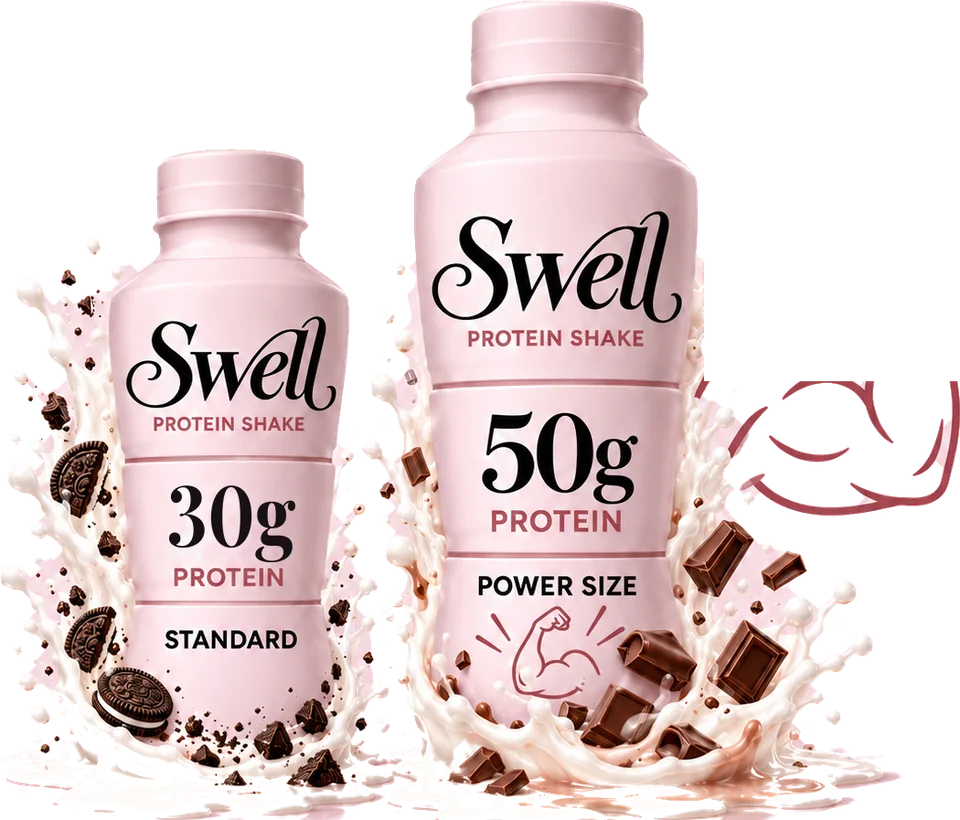
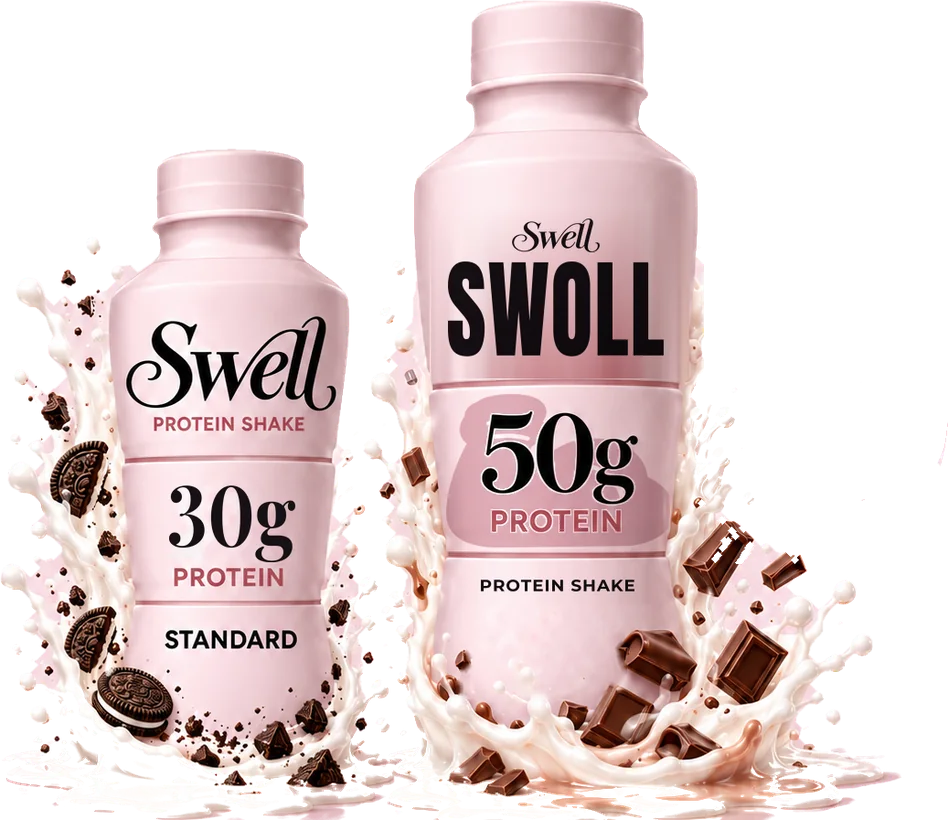
Rebrand the 50g bottle as SWOLL with flexed-arm mark; rename Power Size to Swoll
Claude-Session: https://claude.ai/code/session_01AzpPYfJ2iNTin5mbwrihoY

diff --git a/index.html b/index.html
@@ -361,12 +361,12 @@ footer.site .legal { margin-top: 30px; padding-top: 20px; border-top: 1px solid 
   <a class="btn" href="shop.html#build">Build a box</a>
 </aside><main id="main">
 <div class="lines" id="lines"><div class="lines-track">
-  <div class="line" id="line-shakes"><section class="hero" aria-labelledby="h-shakes"><div class="wrap"><div><h1 id="h-shakes">A milkshake that <em>works out.</em></h1><p class="lead">Cookies & Cream, Cake Batter, Cinnamon Roll and ten more. Every bottle has 30 grams of protein, plus collagen and colostrum, and a lot less sugar than the drive-thru.</p><div class="ctas"><a class="btn" href="shop.html#build">Build a box</a><a class="btn alt" href="machines.html">Find a machine</a></div><div class="facts"><div><b>30g</b>protein, or 50g in Power Size</div><div><b>19</b>flavors</div><div><b>$0</b>due today</div></div><div class="sw-row"><button type="button" class="btn sm alt" data-go="smoothies">Swipe for smoothies →</button></div></div><div class="stage" role="img" aria-label="Swell protein shakes with splashes"><img src="img/splash_cake.webp" alt="" height="720"><img src="img/splash_cc.webp" alt="" height="720"><img src="img/splash_choc.webp" alt="" height="720"></div></div></section><section class="shelf" style="padding-block:28px 10px" aria-labelledby="shelf-shakes"><div class="wrap"><div class="shelf-top"><h2 id="shelf-shakes">All 13 shakes</h2><div class="filters" role="group" aria-label="Filter"><button type="button" class="press" aria-pressed="true" data-filter="all">All</button><button type="button" class="press" aria-pressed="false" data-filter="classic">Classics</button><button type="button" class="press" aria-pressed="false" data-filter="new">New</button><button type="button" class="press" aria-pressed="false" data-filter="seasonal">Seasonal</button></div></div><div class="rail"><article class="fl" data-tag="classic" id="flavor-cc"><span class="tag classic">Classic</span><div class="pic"><img src="img/b_cc.webp" alt="Swell Cookies &amp; Cream protein shake" width="200" height="520" loading="lazy"></div><h3>Cookies &amp; Cream</h3><button type="button" class="add" data-add="cc">Add to box</button></article><article class="fl" data-tag="classic" id="flavor-cake"><span class="tag classic">Classic</span><div class="pic"><img src="img/b_cake.webp" alt="Swell Cake Batter protein shake" width="200" height="520" loading="lazy"></div><h3>Cake Batter</h3><button type="button" class="add" data-add="cake">Add to box</button></article><article class="fl" data-tag="classic" id="flavor-choc"><span class="tag classic">Classic</span><div class="pic"><img src="img/b_choc.webp" alt="Swell Chocolate protein shake" width="200" height="520" loading="lazy"></div><h3>Chocolate</h3><button type="button" class="add" data-add="choc">Add to box</button></article><article class="fl" data-tag="classic" id="flavor-van"><span class="tag classic">Classic</span><div class="pic"><img src="img/b_van.webp" alt="Swell Vanilla protein shake" width="200" height="520" loading="lazy"></div><h3>Vanilla</h3><button type="button" class="add" data-add="van">Add to box</button></article><article class="fl" data-tag="new" id="flavor-peach"><span class="tag new">New</span><div class="pic"><img src="img/b_peach.webp" alt="Swell Peaches &amp; Cream protein shake" width="200" height="520" loading="lazy"></div><h3>Peaches &amp; Cream</h3><button type="button" class="add" data-add="peach">Add to box</button></article><article class="fl" data-tag="new" id="flavor-cinn"><span class="tag new">New</span><div class="pic"><img src="img/b_cinn.webp" alt="Swell Cinnamon Roll protein shake" width="200" height="520" loading="lazy"></div><h3>Cinnamon Roll</h3><button type="button" class="add" data-add="cinn">Add to box</button></article><article class="fl" data-tag="new" id="flavor-mint"><span class="tag new">New</span><div class="pic"><img src="img/b_mint.webp" alt="Swell Mint Chocolate Chip protein shake" width="200" height="520" loading="lazy"></div><h3>Mint Chocolate Chip</h3><button type="button" class="add" data-add="mint">Add to box</button></article><article class="fl" data-tag="new" id="flavor-pbc"><span class="tag new">New</span><div class="pic"><img src="img/b_pbc.webp" alt="Swell Peanut Butter Cup protein shake" width="200" height="520" loading="lazy"></div><h3>Peanut Butter Cup</h3><button type="button" class="add" data-add="pbc">Add to box</button></article><article class="fl" data-tag="new" id="flavor-cbutter"><span class="tag new">New</span><div class="pic"><img src="img/b_cbutter.webp" alt="Swell Cookie Butter protein shake" width="200" height="520" loading="lazy"></div><h3>Cookie Butter</h3><button type="button" class="add" data-add="cbutter">Add to box</button></article><article class="fl" data-tag="new" id="flavor-matcha"><span class="tag new">New</span><div class="pic"><img src="img/b_matcha.webp" alt="Swell Matcha protein shake" width="200" height="520" loading="lazy"></div><h3>Matcha</h3><button type="button" class="add" data-add="matcha">Add to box</button></article><article class="fl" data-tag="new" id="flavor-shortcake"><span class="tag new">New</span><div class="pic"><img src="img/b_shortcake.webp" alt="Swell Strawberry Shortcake protein shake" width="200" height="520" loading="lazy"></div><h3>Strawberry Shortcake</h3><button type="button" class="add" data-add="shortcake">Add to box</button></article><article class="fl" data-tag="seasonal" id="flavor-pumpkin"><span class="tag seasonal">Seasonal</span><div class="pic"><img src="img/b_pumpkin.webp" alt="Swell Pumpkin Spice protein shake" width="200" height="520" loading="lazy"></div><h3>Pumpkin Spice</h3><button type="button" class="add" data-add="pumpkin">Add to box</button></article><article class="fl" data-tag="new" id="flavor-cobbler"><span class="tag new">New</span><div class="pic"><img src="img/b_cobbler.webp" alt="Swell Blueberry Cobbler protein shake" width="200" height="520" loading="lazy"></div><h3>Blueberry Cobbler</h3><button type="button" class="add" data-add="cobbler">Add to box</button></article></div></div></section></div>
-  <div class="line" id="line-smoothies"><section class="hero" aria-labelledby="h-smoothies"><div class="wrap"><div><h1 id="h-smoothies">A smoothie with <em>real protein.</em></h1><p class="lead">Pina Colada, Mango, Blue Raspberry and three more. Creamy fruit taste, 30 grams of protein, collagen and colostrum in every bottle.</p><div class="ctas"><a class="btn" href="shop.html#build">Build a box</a><a class="btn alt" href="machines.html">Find a machine</a></div><div class="facts"><div><b>30g</b>protein, or 50g in Power Size</div><div><b>19</b>flavors</div><div><b>$0</b>due today</div></div><div class="sw-row"><button type="button" class="btn sm alt" data-go="shakes">← Back to shakes</button></div></div><div class="stage" role="img" aria-label="Swell protein smoothies with splashes"><img src="img/splash_sm_pina.webp" alt="" height="720" loading="lazy"><img src="img/splash_sm_mango.webp" alt="" height="720" loading="lazy"><img src="img/splash_sm_berry.webp" alt="" height="720" loading="lazy"></div></div></section><section class="shelf" style="padding-block:28px 10px" aria-labelledby="shelf-smoothies"><div class="wrap"><div class="shelf-top"><h2 id="shelf-smoothies">All 6 smoothies</h2><div class="filters" role="group" aria-label="Filter"><button type="button" class="press" aria-pressed="true" data-filter="all">All</button><button type="button" class="press" aria-pressed="false" data-filter="classic">Classics</button><button type="button" class="press" aria-pressed="false" data-filter="new">New</button></div></div><div class="rail"><article class="fl" data-tag="classic" id="flavor-sm_pina"><span class="tag classic">Classic</span><div class="pic"><img src="img/b_sm_pina.webp" alt="Swell Pina Colada protein smoothie" width="200" height="520" loading="lazy"></div><h3>Pina Colada</h3><button type="button" class="add" data-add="sm_pina">Add to box</button></article><article class="fl" data-tag="classic" id="flavor-sm_mango"><span class="tag classic">Classic</span><div class="pic"><img src="img/b_sm_mango.webp" alt="Swell Mango protein smoothie" width="200" height="520" loading="lazy"></div><h3>Mango</h3><button type="button" class="add" data-add="sm_mango">Add to box</button></article><article class="fl" data-tag="classic" id="flavor-sm_berry"><span class="tag classic">Classic</span><div class="pic"><img src="img/b_sm_berry.webp" alt="Swell Berry Bliss protein smoothie" width="200" height="520" loading="lazy"></div><h3>Berry Bliss</h3><button type="button" class="add" data-add="sm_berry">Add to box</button></article><article class="fl" data-tag="new" id="flavor-sm_apple"><span class="tag new">New</span><div class="pic"><img src="img/b_sm_apple.webp" alt="Swell Sour Apple protein smoothie" width="200" height="520" loading="lazy"></div><h3>Sour Apple</h3><button type="button" class="add" data-add="sm_apple">Add to box</button></article><article class="fl" data-tag="new" id="flavor-sm_blue"><span class="tag new">New</span><div class="pic"><img src="img/b_sm_blue.webp" alt="Swell Blue Raspberry protein smoothie" width="200" height="520" loading="lazy"></div><h3>Blue Raspberry</h3><button type="button" class="add" data-add="sm_blue">Add to box</button></article><article class="fl" data-tag="new" id="flavor-sm_ring"><span class="tag new">New</span><div class="pic"><img src="img/b_sm_ring.webp" alt="Swell Peach Ring protein smoothie" width="200" height="520" loading="lazy"></div><h3>Peach Ring</h3><button type="button" class="add" data-add="sm_ring">Add to box</button></article></div></div></section></div>
+  <div class="line" id="line-shakes"><section class="hero" aria-labelledby="h-shakes"><div class="wrap"><div><h1 id="h-shakes">A milkshake that <em>works out.</em></h1><p class="lead">Cookies & Cream, Cake Batter, Cinnamon Roll and ten more. Every bottle has 30 grams of protein, plus collagen and colostrum, and a lot less sugar than the drive-thru.</p><div class="ctas"><a class="btn" href="shop.html#build">Build a box</a><a class="btn alt" href="machines.html">Find a machine</a></div><div class="facts"><div><b>30g</b>protein, or 50g in a Swoll</div><div><b>19</b>flavors</div><div><b>$0</b>due today</div></div><div class="sw-row"><button type="button" class="btn sm alt" data-go="smoothies">Swipe for smoothies →</button></div></div><div class="stage" role="img" aria-label="Swell protein shakes with splashes"><img src="img/splash_cake.webp" alt="" height="720"><img src="img/splash_cc.webp" alt="" height="720"><img src="img/splash_choc.webp" alt="" height="720"></div></div></section><section class="shelf" style="padding-block:28px 10px" aria-labelledby="shelf-shakes"><div class="wrap"><div class="shelf-top"><h2 id="shelf-shakes">All 13 shakes</h2><div class="filters" role="group" aria-label="Filter"><button type="button" class="press" aria-pressed="true" data-filter="all">All</button><button type="button" class="press" aria-pressed="false" data-filter="classic">Classics</button><button type="button" class="press" aria-pressed="false" data-filter="new">New</button><button type="button" class="press" aria-pressed="false" data-filter="seasonal">Seasonal</button></div></div><div class="rail"><article class="fl" data-tag="classic" id="flavor-cc"><span class="tag classic">Classic</span><div class="pic"><img src="img/b_cc.webp" alt="Swell Cookies &amp; Cream protein shake" width="200" height="520" loading="lazy"></div><h3>Cookies &amp; Cream</h3><button type="button" class="add" data-add="cc">Add to box</button></article><article class="fl" data-tag="classic" id="flavor-cake"><span class="tag classic">Classic</span><div class="pic"><img src="img/b_cake.webp" alt="Swell Cake Batter protein shake" width="200" height="520" loading="lazy"></div><h3>Cake Batter</h3><button type="button" class="add" data-add="cake">Add to box</button></article><article class="fl" data-tag="classic" id="flavor-choc"><span class="tag classic">Classic</span><div class="pic"><img src="img/b_choc.webp" alt="Swell Chocolate protein shake" width="200" height="520" loading="lazy"></div><h3>Chocolate</h3><button type="button" class="add" data-add="choc">Add to box</button></article><article class="fl" data-tag="classic" id="flavor-van"><span class="tag classic">Classic</span><div class="pic"><img src="img/b_van.webp" alt="Swell Vanilla protein shake" width="200" height="520" loading="lazy"></div><h3>Vanilla</h3><button type="button" class="add" data-add="van">Add to box</button></article><article class="fl" data-tag="new" id="flavor-peach"><span class="tag new">New</span><div class="pic"><img src="img/b_peach.webp" alt="Swell Peaches &amp; Cream protein shake" width="200" height="520" loading="lazy"></div><h3>Peaches &amp; Cream</h3><button type="button" class="add" data-add="peach">Add to box</button></article><article class="fl" data-tag="new" id="flavor-cinn"><span class="tag new">New</span><div class="pic"><img src="img/b_cinn.webp" alt="Swell Cinnamon Roll protein shake" width="200" height="520" loading="lazy"></div><h3>Cinnamon Roll</h3><button type="button" class="add" data-add="cinn">Add to box</button></article><article class="fl" data-tag="new" id="flavor-mint"><span class="tag new">New</span><div class="pic"><img src="img/b_mint.webp" alt="Swell Mint Chocolate Chip protein shake" width="200" height="520" loading="lazy"></div><h3>Mint Chocolate Chip</h3><button type="button" class="add" data-add="mint">Add to box</button></article><article class="fl" data-tag="new" id="flavor-pbc"><span class="tag new">New</span><div class="pic"><img src="img/b_pbc.webp" alt="Swell Peanut Butter Cup protein shake" width="200" height="520" loading="lazy"></div><h3>Peanut Butter Cup</h3><button type="button" class="add" data-add="pbc">Add to box</button></article><article class="fl" data-tag="new" id="flavor-cbutter"><span class="tag new">New</span><div class="pic"><img src="img/b_cbutter.webp" alt="Swell Cookie Butter protein shake" width="200" height="520" loading="lazy"></div><h3>Cookie Butter</h3><button type="button" class="add" data-add="cbutter">Add to box</button></article><article class="fl" data-tag="new" id="flavor-matcha"><span class="tag new">New</span><div class="pic"><img src="img/b_matcha.webp" alt="Swell Matcha protein shake" width="200" height="520" loading="lazy"></div><h3>Matcha</h3><button type="button" class="add" data-add="matcha">Add to box</button></article><article class="fl" data-tag="new" id="flavor-shortcake"><span class="tag new">New</span><div class="pic"><img src="img/b_shortcake.webp" alt="Swell Strawberry Shortcake protein shake" width="200" height="520" loading="lazy"></div><h3>Strawberry Shortcake</h3><button type="button" class="add" data-add="shortcake">Add to box</button></article><article class="fl" data-tag="seasonal" id="flavor-pumpkin"><span class="tag seasonal">Seasonal</span><div class="pic"><img src="img/b_pumpkin.webp" alt="Swell Pumpkin Spice protein shake" width="200" height="520" loading="lazy"></div><h3>Pumpkin Spice</h3><button type="button" class="add" data-add="pumpkin">Add to box</button></article><article class="fl" data-tag="new" id="flavor-cobbler"><span class="tag new">New</span><div class="pic"><img src="img/b_cobbler.webp" alt="Swell Blueberry Cobbler protein shake" width="200" height="520" loading="lazy"></div><h3>Blueberry Cobbler</h3><button type="button" class="add" data-add="cobbler">Add to box</button></article></div></div></section></div>
+  <div class="line" id="line-smoothies"><section class="hero" aria-labelledby="h-smoothies"><div class="wrap"><div><h1 id="h-smoothies">A smoothie with <em>real protein.</em></h1><p class="lead">Pina Colada, Mango, Blue Raspberry and three more. Creamy fruit taste, 30 grams of protein, collagen and colostrum in every bottle.</p><div class="ctas"><a class="btn" href="shop.html#build">Build a box</a><a class="btn alt" href="machines.html">Find a machine</a></div><div class="facts"><div><b>30g</b>protein, or 50g in a Swoll</div><div><b>19</b>flavors</div><div><b>$0</b>due today</div></div><div class="sw-row"><button type="button" class="btn sm alt" data-go="shakes">← Back to shakes</button></div></div><div class="stage" role="img" aria-label="Swell protein smoothies with splashes"><img src="img/splash_sm_pina.webp" alt="" height="720" loading="lazy"><img src="img/splash_sm_mango.webp" alt="" height="720" loading="lazy"><img src="img/splash_sm_berry.webp" alt="" height="720" loading="lazy"></div></div></section><section class="shelf" style="padding-block:28px 10px" aria-labelledby="shelf-smoothies"><div class="wrap"><div class="shelf-top"><h2 id="shelf-smoothies">All 6 smoothies</h2><div class="filters" role="group" aria-label="Filter"><button type="button" class="press" aria-pressed="true" data-filter="all">All</button><button type="button" class="press" aria-pressed="false" data-filter="classic">Classics</button><button type="button" class="press" aria-pressed="false" data-filter="new">New</button></div></div><div class="rail"><article class="fl" data-tag="classic" id="flavor-sm_pina"><span class="tag classic">Classic</span><div class="pic"><img src="img/b_sm_pina.webp" alt="Swell Pina Colada protein smoothie" width="200" height="520" loading="lazy"></div><h3>Pina Colada</h3><button type="button" class="add" data-add="sm_pina">Add to box</button></article><article class="fl" data-tag="classic" id="flavor-sm_mango"><span class="tag classic">Classic</span><div class="pic"><img src="img/b_sm_mango.webp" alt="Swell Mango protein smoothie" width="200" height="520" loading="lazy"></div><h3>Mango</h3><button type="button" class="add" data-add="sm_mango">Add to box</button></article><article class="fl" data-tag="classic" id="flavor-sm_berry"><span class="tag classic">Classic</span><div class="pic"><img src="img/b_sm_berry.webp" alt="Swell Berry Bliss protein smoothie" width="200" height="520" loading="lazy"></div><h3>Berry Bliss</h3><button type="button" class="add" data-add="sm_berry">Add to box</button></article><article class="fl" data-tag="new" id="flavor-sm_apple"><span class="tag new">New</span><div class="pic"><img src="img/b_sm_apple.webp" alt="Swell Sour Apple protein smoothie" width="200" height="520" loading="lazy"></div><h3>Sour Apple</h3><button type="button" class="add" data-add="sm_apple">Add to box</button></article><article class="fl" data-tag="new" id="flavor-sm_blue"><span class="tag new">New</span><div class="pic"><img src="img/b_sm_blue.webp" alt="Swell Blue Raspberry protein smoothie" width="200" height="520" loading="lazy"></div><h3>Blue Raspberry</h3><button type="button" class="add" data-add="sm_blue">Add to box</button></article><article class="fl" data-tag="new" id="flavor-sm_ring"><span class="tag new">New</span><div class="pic"><img src="img/b_sm_ring.webp" alt="Swell Peach Ring protein smoothie" width="200" height="520" loading="lazy"></div><h3>Peach Ring</h3><button type="button" class="add" data-add="sm_ring">Add to box</button></article></div></div></section></div>
 </div></div>
 <section class="alt-bg"><div class="wrap why">
   <p class="big">Core Power is for after the gym. Premier is for filling nutrition gaps. <b>Swell is for 9pm</b>, when you want a milkshake and don't want it to wreck your day.</p>
-  <div class="who"><div><img src="img/b_cc.webp" alt="" width="40" height="104" loading="lazy"><p><b>Sweet tooth.</b> <span>Every Swell flavor is built from a real dessert: cookies &amp; cream, cake batter, cinnamon roll. It just shows up with 30g protein.</span></p></div><div><img src="img/b_van.webp" alt="" width="40" height="104" loading="lazy"><p><b>Eating protein-first.</b> <span>If you&#x27;re on a GLP-1 or just eating less, one bottle gets you 30g protein (or 50g in Power Size) without forcing down a meal.</span></p></div><div><img src="img/b_pbc.webp" alt="" width="40" height="104" loading="lazy"><p><b>Ninja Creami owners.</b> <span>Pour one bottle into a pint, freeze it, spin it. That&#x27;s a full pint of protein ice cream.</span></p></div></div>
+  <div class="who"><div><img src="img/b_cc.webp" alt="" width="40" height="104" loading="lazy"><p><b>Sweet tooth.</b> <span>Every Swell flavor is built from a real dessert: cookies &amp; cream, cake batter, cinnamon roll. It just shows up with 30g protein.</span></p></div><div><img src="img/b_van.webp" alt="" width="40" height="104" loading="lazy"><p><b>Eating protein-first.</b> <span>If you&#x27;re on a GLP-1 or just eating less, one bottle gets you 30g protein (or 50g in a Swoll) without forcing down a meal.</span></p></div><div><img src="img/b_pbc.webp" alt="" width="40" height="104" loading="lazy"><p><b>Ninja Creami owners.</b> <span>Pour one bottle into a pint, freeze it, spin it. That&#x27;s a full pint of protein ice cream.</span></p></div></div>
 </div></section>
 <section><div class="wrap">
   <div class="doors">
@@ -377,7 +377,7 @@ footer.site .legal { margin-top: 30px; padding-top: 20px; border-top: 1px solid 
 </div></section>
 <section class="alt-bg"><div class="wrap">
   <div class="sec-h"><h2>What people say at the machine</h2><p><span class="ph">These are placeholder quotes. Swap in real ones before launch.</span></p></div>
-  <div class="quotes"><figure class="quote"><q>Tastes like the shake I&#x27;d get after practice, but I can actually drink it before practice.</q><figcaption>Placeholder · Cookies &amp; Cream</figcaption></figure><figure class="quote"><q>My kids think it&#x27;s dessert. I&#x27;m not telling them otherwise.</q><figcaption>Placeholder · Cake Batter</figcaption></figure><figure class="quote"><q>Thick, not chalky. The Power Size after leg day is the move.</q><figcaption>Placeholder · Chocolate</figcaption></figure><figure class="quote"><q>Grabbed one from the machine at my gym and went back for a second.</q><figcaption>Placeholder · Mango</figcaption></figure><figure class="quote"><q>I put it straight in my Creami. Best protein ice cream I&#x27;ve made.</q><figcaption>Placeholder · Vanilla</figcaption></figure><figure class="quote"><q>Didn&#x27;t expect a protein smoothie to taste like candy. In a good way.</q><figcaption>Placeholder · Blue Raspberry</figcaption></figure></div>
+  <div class="quotes"><figure class="quote"><q>Tastes like the shake I&#x27;d get after practice, but I can actually drink it before practice.</q><figcaption>Placeholder · Cookies &amp; Cream</figcaption></figure><figure class="quote"><q>My kids think it&#x27;s dessert. I&#x27;m not telling them otherwise.</q><figcaption>Placeholder · Cake Batter</figcaption></figure><figure class="quote"><q>Thick, not chalky. The Swoll after leg day is the move.</q><figcaption>Placeholder · Chocolate</figcaption></figure><figure class="quote"><q>Grabbed one from the machine at my gym and went back for a second.</q><figcaption>Placeholder · Mango</figcaption></figure><figure class="quote"><q>I put it straight in my Creami. Best protein ice cream I&#x27;ve made.</q><figcaption>Placeholder · Vanilla</figcaption></figure><figure class="quote"><q>Didn&#x27;t expect a protein smoothie to taste like candy. In a good way.</q><figcaption>Placeholder · Blue Raspberry</figcaption></figure></div>
 </div></section></main>
 <footer class="site"><div class="wrap">
   <div class="cols">

diff --git a/faq.html b/faq.html
@@ -11,7 +11,7 @@
 <meta name="color-scheme" content="light dark">
 <meta property="og:type" content="website"><meta property="og:site_name" content="Swell"><meta property="og:title" content="FAQ | Swell"><meta property="og:description" content="Answers about Swell protein shakes and smoothies: flavors, protein, ingredients, Ninja Creami, GLP-1 and where to buy."><meta property="og:url" content="https://pdrayday.github.io/swell/faq.html"><meta property="og:image" content="https://pdrayday.github.io/swell/img/splash_cc.webp">
 <link rel="preconnect" href="https://fonts.googleapis.com"><link rel="preconnect" href="https://fonts.gstatic.com" crossorigin><link rel="stylesheet" href="https://fonts.googleapis.com/css2?family=Source+Serif+4:ital,opsz,wght@0,8..60,600..800;1,8..60,600..700&family=Instrument+Sans:wght@400;500;600;700&display=swap">
-<script type="application/ld+json">{"@context": "https://schema.org", "@type": "FAQPage", "mainEntity": [{"@type": "Question", "name": "What is Swell?", "acceptedAnswer": {"@type": "Answer", "text": "Ready-to-drink protein shakes and smoothies that taste like dessert. Every bottle has 30g protein (50g in Power Size), collagen peptides and colostrum, with far less sugar than a milkshake."}}, {"@type": "Question", "name": "What flavors are there?", "acceptedAnswer": {"@type": "Answer", "text": "Shakes: Cookies & Cream, Cake Batter, Chocolate, Vanilla, Peaches & Cream, Cinnamon Roll, Mint Chocolate Chip, Peanut Butter Cup, Cookie Butter, Matcha, Strawberry Shortcake, Pumpkin Spice, Blueberry Cobbler. Smoothies: Pina Colada, Mango, Berry Bliss, Sour Apple, Blue Raspberry, Peach Ring."}}, {"@type": "Question", "name": "How much protein is in a bottle?", "acceptedAnswer": {"@type": "Answer", "text": "30g in the Standard 14 fl oz bottle and 50g in the bigger Power Size bottle."}}, {"@type": "Question", "name": "How is Swell different from Core Power or Premier Protein?", "acceptedAnswer": {"@type": "Answer", "text": "Core Power is positioned as a post-workout recovery drink and Premier Protein as a nutrition shake. Swell is made to replace dessert: milkshake and smoothie flavors with 30g protein, collagen and colostrum."}}, {"@type": "Question", "name": "Is Swell a good fit if I'm on a GLP-1?", "acceptedAnswer": {"@type": "Answer", "text": "Plenty of people eating less still have a protein goal, and one bottle gives you 30g (or 50g) without a full meal. Swell isn't a medical product, so check with your doctor about your own needs."}}, {"@type": "Question", "name": "Can I make ice cream with it in a Ninja Creami?", "acceptedAnswer": {"@type": "Answer", "text": "Yes. Pour one bottle into a Creami pint, freeze 24 hours, and spin on Lite Ice Cream for shakes or Sorbet for smoothies."}}, {"@type": "Question", "name": "Can I mix flavors in a box?", "acceptedAnswer": {"@type": "Answer", "text": "Yes. Build a 12- or 24-bottle box with any mix of shakes and smoothies, in 30g or 50g."}}, {"@type": "Question", "name": "Where can I buy Swell?", "acceptedAnswer": {"@type": "Answer", "text": "In Swell vending machines around Utah County now. Boxes are launching soon, and you can reserve one today."}}, {"@type": "Question", "name": "Does Swell have dairy?", "acceptedAnswer": {"@type": "Answer", "text": "Yes. It's made with milk protein and colostrum, which both come from milk."}}]}</script><script>try{var l=localStorage.getItem('swell-line');if(l)document.documentElement.dataset.line=JSON.parse(l);}catch(e){}</script>
+<script type="application/ld+json">{"@context": "https://schema.org", "@type": "FAQPage", "mainEntity": [{"@type": "Question", "name": "What is Swell?", "acceptedAnswer": {"@type": "Answer", "text": "Ready-to-drink protein shakes and smoothies that taste like dessert. Every bottle has 30g protein (50g in a Swoll), collagen peptides and colostrum, with far less sugar than a milkshake."}}, {"@type": "Question", "name": "What flavors are there?", "acceptedAnswer": {"@type": "Answer", "text": "Shakes: Cookies & Cream, Cake Batter, Chocolate, Vanilla, Peaches & Cream, Cinnamon Roll, Mint Chocolate Chip, Peanut Butter Cup, Cookie Butter, Matcha, Strawberry Shortcake, Pumpkin Spice, Blueberry Cobbler. Smoothies: Pina Colada, Mango, Berry Bliss, Sour Apple, Blue Raspberry, Peach Ring."}}, {"@type": "Question", "name": "How much protein is in a bottle?", "acceptedAnswer": {"@type": "Answer", "text": "30g in the Standard 14 fl oz bottle and 50g in the bigger Swoll bottle."}}, {"@type": "Question", "name": "What is Swoll?", "acceptedAnswer": {"@type": "Answer", "text": "Swoll is the bigger Swell bottle, with 50g protein instead of 30g. Choose it in the box builder when you want a post-workout shake or a meal replacement."}}, {"@type": "Question", "name": "How is Swell different from Core Power or Premier Protein?", "acceptedAnswer": {"@type": "Answer", "text": "Core Power is positioned as a post-workout recovery drink and Premier Protein as a nutrition shake. Swell is made to replace dessert: milkshake and smoothie flavors with 30g protein, collagen and colostrum."}}, {"@type": "Question", "name": "Is Swell a good fit if I'm on a GLP-1?", "acceptedAnswer": {"@type": "Answer", "text": "Plenty of people eating less still have a protein goal, and one bottle gives you 30g (or 50g) without a full meal. Swell isn't a medical product, so check with your doctor about your own needs."}}, {"@type": "Question", "name": "Can I make ice cream with it in a Ninja Creami?", "acceptedAnswer": {"@type": "Answer", "text": "Yes. Pour one bottle into a Creami pint, freeze 24 hours, and spin on Lite Ice Cream for shakes or Sorbet for smoothies."}}, {"@type": "Question", "name": "Can I mix flavors in a box?", "acceptedAnswer": {"@type": "Answer", "text": "Yes. Build a 12- or 24-bottle box with any mix of shakes and smoothies, in 30g or 50g."}}, {"@type": "Question", "name": "Where can I buy Swell?", "acceptedAnswer": {"@type": "Answer", "text": "In Swell vending machines around Utah County now. Boxes are launching soon, and you can reserve one today."}}, {"@type": "Question", "name": "Does Swell have dairy?", "acceptedAnswer": {"@type": "Answer", "text": "Yes. It's made with milk protein and colostrum, which both come from milk."}}]}</script><script>try{var l=localStorage.getItem('swell-line');if(l)document.documentElement.dataset.line=JSON.parse(l);}catch(e){}</script>
 </head>
 <body>
 <style>
@@ -359,7 +359,7 @@ footer.site .legal { margin-top: 30px; padding-top: 20px; border-top: 1px solid 
   <div class="line-sw" role="group" aria-label="Product line"><button type="button" data-go="shakes" aria-pressed="true">Shakes</button><button type="button" data-go="smoothies" aria-pressed="false">Smoothies</button></div>
   <nav><a href="index.html">Home<span></span></a><a href="shop.html">Shop<span>Build a box</span></a><a href="machines.html">Find a machine<span>Utah County</span></a><a href="creami/index.html">Recipes<span>Ninja Creami</span></a><a href="about.html">About<span>Our story</span></a><a href="faq.html" aria-current="page">FAQ<span>Questions</span></a></nav>
   <a class="btn" href="shop.html#build">Build a box</a>
-</aside><main id="main"><section class="page-h"><div class="wrap"><h1>Questions</h1></div></section><section style="padding-top:10px"><div class="wrap"><div class="acc"><details open><summary><h3>What is Swell?</h3></summary><div class="ans"><p>Ready-to-drink protein shakes and smoothies that taste like dessert. Every bottle has 30g protein (50g in Power Size), collagen peptides and colostrum, with far less sugar than a milkshake.</p></div></details><details><summary><h3>What flavors are there?</h3></summary><div class="ans"><p>Shakes: Cookies &amp; Cream, Cake Batter, Chocolate, Vanilla, Peaches &amp; Cream, Cinnamon Roll, Mint Chocolate Chip, Peanut Butter Cup, Cookie Butter, Matcha, Strawberry Shortcake, Pumpkin Spice, Blueberry Cobbler. Smoothies: Pina Colada, Mango, Berry Bliss, Sour Apple, Blue Raspberry, Peach Ring.</p></div></details><details><summary><h3>How much protein is in a bottle?</h3></summary><div class="ans"><p>30g in the Standard 14 fl oz bottle and 50g in the bigger Power Size bottle.</p></div></details><details><summary><h3>How is Swell different from Core Power or Premier Protein?</h3></summary><div class="ans"><p>Core Power is positioned as a post-workout recovery drink and Premier Protein as a nutrition shake. Swell is made to replace dessert: milkshake and smoothie flavors with 30g protein, collagen and colostrum.</p></div></details><details><summary><h3>Is Swell a good fit if I&#x27;m on a GLP-1?</h3></summary><div class="ans"><p>Plenty of people eating less still have a protein goal, and one bottle gives you 30g (or 50g) without a full meal. Swell isn&#x27;t a medical product, so check with your doctor about your own needs.</p></div></details><details><summary><h3>Can I make ice cream with it in a Ninja Creami?</h3></summary><div class="ans"><p>Yes. Pour one bottle into a Creami pint, freeze 24 hours, and spin on Lite Ice Cream for shakes or Sorbet for smoothies.</p></div></details><details><summary><h3>Can I mix flavors in a box?</h3></summary><div class="ans"><p>Yes. Build a 12- or 24-bottle box with any mix of shakes and smoothies, in 30g or 50g.</p></div></details><details><summary><h3>Where can I buy Swell?</h3></summary><div class="ans"><p>In Swell vending machines around Utah County now. Boxes are launching soon, and you can reserve one today.</p></div></details><details><summary><h3>Does Swell have dairy?</h3></summary><div class="ans"><p>Yes. It&#x27;s made with milk protein and colostrum, which both come from milk.</p></div></details></div></div></section></main>
+</aside><main id="main"><section class="page-h"><div class="wrap"><h1>Questions</h1></div></section><section style="padding-top:10px"><div class="wrap"><div class="acc"><details open><summary><h3>What is Swell?</h3></summary><div class="ans"><p>Ready-to-drink protein shakes and smoothies that taste like dessert. Every bottle has 30g protein (50g in a Swoll), collagen peptides and colostrum, with far less sugar than a milkshake.</p></div></details><details><summary><h3>What flavors are there?</h3></summary><div class="ans"><p>Shakes: Cookies &amp; Cream, Cake Batter, Chocolate, Vanilla, Peaches &amp; Cream, Cinnamon Roll, Mint Chocolate Chip, Peanut Butter Cup, Cookie Butter, Matcha, Strawberry Shortcake, Pumpkin Spice, Blueberry Cobbler. Smoothies: Pina Colada, Mango, Berry Bliss, Sour Apple, Blue Raspberry, Peach Ring.</p></div></details><details><summary><h3>How much protein is in a bottle?</h3></summary><div class="ans"><p>30g in the Standard 14 fl oz bottle and 50g in the bigger Swoll bottle.</p></div></details><details><summary><h3>What is Swoll?</h3></summary><div class="ans"><p>Swoll is the bigger Swell bottle, with 50g protein instead of 30g. Choose it in the box builder when you want a post-workout shake or a meal replacement.</p></div></details><details><summary><h3>How is Swell different from Core Power or Premier Protein?</h3></summary><div class="ans"><p>Core Power is positioned as a post-workout recovery drink and Premier Protein as a nutrition shake. Swell is made to replace dessert: milkshake and smoothie flavors with 30g protein, collagen and colostrum.</p></div></details><details><summary><h3>Is Swell a good fit if I&#x27;m on a GLP-1?</h3></summary><div class="ans"><p>Plenty of people eating less still have a protein goal, and one bottle gives you 30g (or 50g) without a full meal. Swell isn&#x27;t a medical product, so check with your doctor about your own needs.</p></div></details><details><summary><h3>Can I make ice cream with it in a Ninja Creami?</h3></summary><div class="ans"><p>Yes. Pour one bottle into a Creami pint, freeze 24 hours, and spin on Lite Ice Cream for shakes or Sorbet for smoothies.</p></div></details><details><summary><h3>Can I mix flavors in a box?</h3></summary><div class="ans"><p>Yes. Build a 12- or 24-bottle box with any mix of shakes and smoothies, in 30g or 50g.</p></div></details><details><summary><h3>Where can I buy Swell?</h3></summary><div class="ans"><p>In Swell vending machines around Utah County now. Boxes are launching soon, and you can reserve one today.</p></div></details><details><summary><h3>Does Swell have dairy?</h3></summary><div class="ans"><p>Yes. It&#x27;s made with milk protein and colostrum, which both come from milk.</p></div></details></div></div></section></main>
 <footer class="site"><div class="wrap">
   <div class="cols">
     <div><a class="logo" href="index.html"><img src="img/logo.png" alt="Swell" width="416" height="159" loading="lazy"></a><p class="small" style="margin-top:12px;max-width:22em">Protein shakes and smoothies that taste like dessert. Made in Utah County.</p></div>

diff --git a/shop.html b/shop.html
@@ -374,7 +374,7 @@ footer.site .legal { margin-top: 30px; padding-top: 20px; border-top: 1px solid 
       <button type="button" data-size="24" aria-pressed="false"><b>24 bottles</b><span>For the daily drinker</span><em class="save">Save 15%</em></button></div></div>
     <div class="step"><h3>2. Protein</h3><div class="seg" role="group" aria-label="Protein">
       <button type="button" data-protein="30" aria-pressed="true"><b>30g · Standard</b><span>14 fl oz bottle</span></button>
-      <button type="button" data-protein="50" aria-pressed="false"><b>50g · Power Size</b><span>Bigger bottle</span></button></div></div>
+      <button type="button" data-protein="50" aria-pressed="false"><b>50g · Swoll</b><span>Bigger bottle</span></button></div></div>
     <div class="step"><h3>3. Flavors</h3>
       <div class="btabs" role="tablist"><button type="button" role="tab" aria-selected="true" data-btab="shakes">Shakes (13)</button><button type="button" role="tab" aria-selected="false" data-btab="smoothies">Smoothies (6)</button></div>
       <div class="picks" data-bpanel="shakes"><div class="pk" data-id="cc"><img src="img/b_cc.webp" alt="" width="46" height="120" loading="lazy"><div><b>Cookies &amp; Cream</b><small>Classic</small></div><div class="qty"><button type="button" data-dec="cc" aria-label="Remove one Cookies &amp; Cream">−</button><output id="q-cc">0</output><button type="button" data-inc="cc" aria-label="Add one Cookies &amp; Cream">+</button></div></div><div class="pk" data-id="cake"><img src="img/b_cake.webp" alt="" width="46" height="120" loading="lazy"><div><b>Cake Batter</b><small>Classic</small></div><div class="qty"><button type="button" data-dec="cake" aria-label="Remove one Cake Batter">−</button><output id="q-cake">0</output><button type="button" data-inc="cake" aria-label="Add one Cake Batter">+</button></div></div><div class="pk" data-id="choc"><img src="img/b_choc.webp" alt="" width="46" height="120" loading="lazy"><div><b>Chocolate</b><small>Classic</small></div><div class="qty"><button type="button" data-dec="choc" aria-label="Remove one Chocolate">−</button><output id="q-choc">0</output><button type="button" data-inc="choc" aria-label="Add one Chocolate">+</button></div></div><div class="pk" data-id="van"><img src="img/b_van.webp" alt="" width="46" height="120" loading="lazy"><div><b>Vanilla</b><small>Classic</small></div><div class="qty"><button type="button" data-dec="van" aria-label="Remove one Vanilla">−</button><output id="q-van">0</output><button type="button" data-inc="van" aria-label="Add one Vanilla">+</button></div></div><div class="pk" data-id="peach"><img src="img/b_peach.webp" alt="" width="46" height="120" loading="lazy"><div><b>Peaches &amp; Cream</b><small>New</small></div><div class="qty"><button type="button" data-dec="peach" aria-label="Remove one Peaches &amp; Cream">−</button><output id="q-peach">0</output><button type="button" data-inc="peach" aria-label="Add one Peaches &amp; Cream">+</button></div></div><div class="pk" data-id="cinn"><img src="img/b_cinn.webp" alt="" width="46" height="120" loading="lazy"><div><b>Cinnamon Roll</b><small>New</small></div><div class="qty"><button type="button" data-dec="cinn" aria-label="Remove one Cinnamon Roll">−</button><output id="q-cinn">0</output><button type="button" data-inc="cinn" aria-label="Add one Cinnamon Roll">+</button></div></div><div class="pk" data-id="mint"><img src="img/b_mint.webp" alt="" width="46" height="120" loading="lazy"><div><b>Mint Chocolate Chip</b><small>New</small></div><div class="qty"><button type="button" data-dec="mint" aria-label="Remove one Mint Chocolate Chip">−</button><output id="q-mint">0</output><button type="button" data-inc="mint" aria-label="Add one Mint Chocolate Chip">+</button></div></div><div class="pk" data-id="pbc"><img src="img/b_pbc.webp" alt="" width="46" height="120" loading="lazy"><div><b>Peanut Butter Cup</b><small>New</small></div><div class="qty"><button type="button" data-dec="pbc" aria-label="Remove one Peanut Butter Cup">−</button><output id="q-pbc">0</output><button type="button" data-inc="pbc" aria-label="Add one Peanut Butter Cup">+</button></div></div><div class="pk" data-id="cbutter"><img src="img/b_cbutter.webp" alt="" width="46" height="120" loading="lazy"><div><b>Cookie Butter</b><small>New</small></div><div class="qty"><button type="button" data-dec="cbutter" aria-label="Remove one Cookie Butter">−</button><output id="q-cbutter">0</output><button type="button" data-inc="cbutter" aria-label="Add one Cookie Butter">+</button></div></div><div class="pk" data-id="matcha"><img src="img/b_matcha.webp" alt="" width="46" height="120" loading="lazy"><div><b>Matcha</b><small>New</small></div><div class="qty"><button type="button" data-dec="matcha" aria-label="Remove one Matcha">−</button><output id="q-matcha">0</output><button type="button" data-inc="matcha" aria-label="Add one Matcha">+</button></div></div><div class="pk" data-id="shortcake"><img src="img/b_shortcake.webp" alt="" width="46" height="120" loading="lazy"><div><b>Strawberry Shortcake</b><small>New</small></div><div class="qty"><button type="button" data-dec="shortcake" aria-label="Remove one Strawberry Shortcake">−</button><output id="q-shortcake">0</output><button type="button" data-inc="shortcake" aria-label="Add one Strawberry Shortcake">+</button></div></div><div class="pk" data-id="pumpkin"><img src="img/b_pumpkin.webp" alt="" width="46" height="120" loading="lazy"><div><b>Pumpkin Spice</b><small>Seasonal</small></div><div class="qty"><button type="button" data-dec="pumpkin" aria-label="Remove one Pumpkin Spice">−</button><output id="q-pumpkin">0</output><button type="button" data-inc="pumpkin" aria-label="Add one Pumpkin Spice">+</button></div></div><div class="pk" data-id="cobbler"><img src="img/b_cobbler.webp" alt="" width="46" height="120" loading="lazy"><div><b>Blueberry Cobbler</b><small>New</small></div><div class="qty"><button type="button" data-dec="cobbler" aria-label="Remove one Blueberry Cobbler">−</button><output id="q-cobbler">0</output><button type="button" data-inc="cobbler" aria-label="Add one Blueberry Cobbler">+</button></div></div></div><div class="picks" data-bpanel="smoothies" hidden><div class="pk" data-id="sm_pina"><img src="img/b_sm_pina.webp" alt="" width="46" height="120" loading="lazy"><div><b>Pina Colada</b><small>Classic</small></div><div class="qty"><button type="button" data-dec="sm_pina" aria-label="Remove one Pina Colada">−</button><output id="q-sm_pina">0</output><button type="button" data-inc="sm_pina" aria-label="Add one Pina Colada">+</button></div></div><div class="pk" data-id="sm_mango"><img src="img/b_sm_mango.webp" alt="" width="46" height="120" loading="lazy"><div><b>Mango</b><small>Classic</small></div><div class="qty"><button type="button" data-dec="sm_mango" aria-label="Remove one Mango">−</button><output id="q-sm_mango">0</output><button type="button" data-inc="sm_mango" aria-label="Add one Mango">+</button></div></div><div class="pk" data-id="sm_berry"><img src="img/b_sm_berry.webp" alt="" width="46" height="120" loading="lazy"><div><b>Berry Bliss</b><small>Classic</small></div><div class="qty"><button type="button" data-dec="sm_berry" aria-label="Remove one Berry Bliss">−</button><output id="q-sm_berry">0</output><button type="button" data-inc="sm_berry" aria-label="Add one Berry Bliss">+</button></div></div><div class="pk" data-id="sm_apple"><img src="img/b_sm_apple.webp" alt="" width="46" height="120" loading="lazy"><div><b>Sour Apple</b><small>New</small></div><div class="qty"><button type="button" data-dec="sm_apple" aria-label="Remove one Sour Apple">−</button><output id="q-sm_apple">0</output><button type="button" data-inc="sm_apple" aria-label="Add one Sour Apple">+</button></div></div><div class="pk" data-id="sm_blue"><img src="img/b_sm_blue.webp" alt="" width="46" height="120" loading="lazy"><div><b>Blue Raspberry</b><small>New</small></div><div class="qty"><button type="button" data-dec="sm_blue" aria-label="Remove one Blue Raspberry">−</button><output id="q-sm_blue">0</output><button type="button" data-inc="sm_blue" aria-label="Add one Blue Raspberry">+</button></div></div><div class="pk" data-id="sm_ring"><img src="img/b_sm_ring.webp" alt="" width="46" height="120" loading="lazy"><div><b>Peach Ring</b><small>New</small></div><div class="qty"><button type="button" data-dec="sm_ring" aria-label="Remove one Peach Ring">−</button><output id="q-sm_ring">0</output><button type="button" data-inc="sm_ring" aria-label="Add one Peach Ring">+</button></div></div></div></div>
@@ -391,10 +391,10 @@ footer.site .legal { margin-top: 30px; padding-top: 20px; border-top: 1px solid 
   </form>
 </div></section>
 <section class="alt-bg" id="sizes"><div class="wrap sizes">
-  <div class="stage"><img src="img/size_compare.webp" alt="Swell Standard bottle with 30g protein next to the bigger Power Size bottle with 50g" width="960" height="820" loading="lazy"></div>
+  <div class="stage"><img src="img/size_compare.webp" alt="Swell Standard bottle with 30g protein next to the bigger Swoll bottle with 50g" width="960" height="820" loading="lazy"></div>
   <div><div class="sec-h" style="margin-bottom:20px"><h2>Two bottle sizes</h2><p>Same flavors either way. Choose how much protein you want.</p></div>
     <button type="button" class="opt" data-protein="30" aria-pressed="true"><span class="g">30g</span><span class="t"><b>Standard</b><span>14 fl oz. A snack or a dessert swap.</span></span><span class="dot"></span></button>
-    <button type="button" class="opt" data-protein="50" aria-pressed="false"><span class="g">50g</span><span class="t"><b>Power Size</b><span>After the gym, or when it's replacing a meal.</span></span><span class="dot"></span></button></div>
+    <button type="button" class="opt" data-protein="50" aria-pressed="false"><span class="g">50g</span><span class="t"><b>Swoll</b><span>After the gym, or when it's replacing a meal.</span></span><span class="dot"></span></button></div>
 </div></section></main>
 <footer class="site"><div class="wrap">
   <div class="cols">

diff --git a/about.html b/about.html
@@ -371,7 +371,7 @@ footer.site .legal { margin-top: 30px; padding-top: 20px; border-top: 1px solid 
 <section class="alt-bg" id="inside"><div class="wrap">
   <div class="sec-h"><h2>What's in every bottle</h2><p>Shakes and smoothies use the same base.</p></div>
   <div class="inside">
-    <div><b>30g</b><h3>Milk protein</h3><p>50g in Power Size. It's what makes Swell thick like a real shake.</p></div>
+    <div><b>30g</b><h3>Milk protein</h3><p>50g in a Swoll. It's what makes Swell thick like a real shake.</p></div>
     <div><b>+</b><h3>Collagen peptides</h3><p>Small, easy-to-dissolve collagen protein. No taste, no grit.*</p></div>
     <div><b>+</b><h3>Colostrum</h3><p>The first milk after calving, naturally rich in proteins and immunoglobulins.*</p></div>
     <div><b>−</b><h3>Less sugar</h3><p>Far less than a fast-food milkshake.</p></div>
